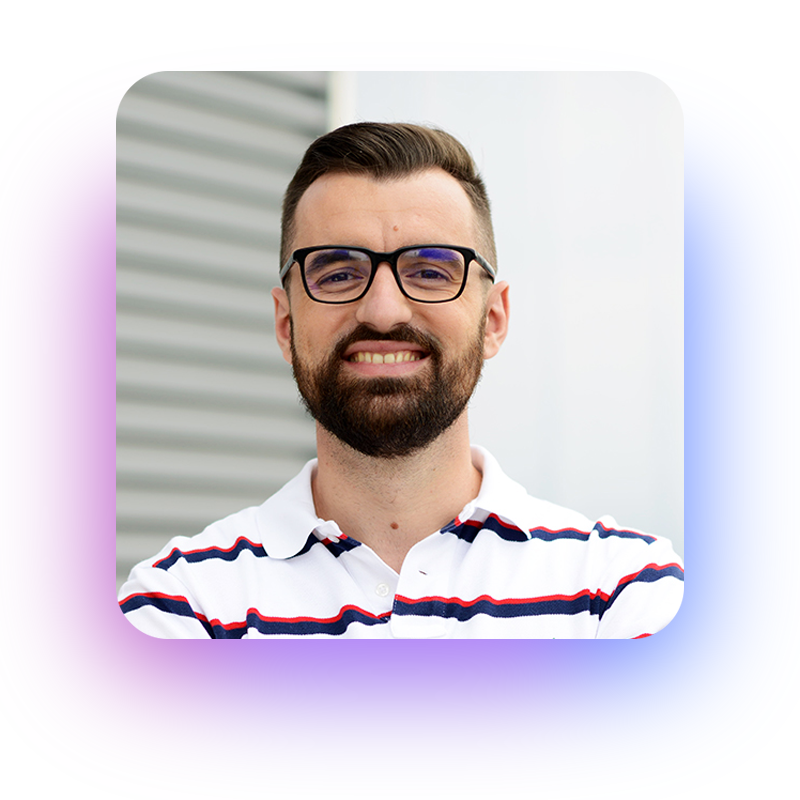
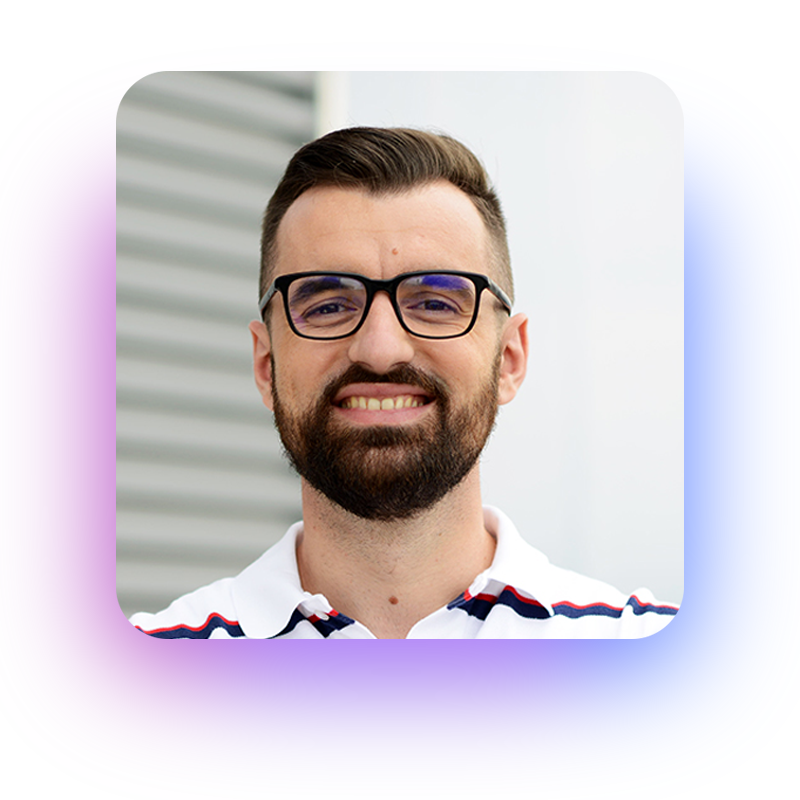
GitBook: [#16] added a table + image

Changed region(s): [[0.125, 0.0938, 0.875, 0.8125]]

diff --git a/team.md b/team.md
@@ -2,9 +2,10 @@
 
 ## **Daniel Tamas – CEO**
 
-![](.gitbook/assets/wam_danieltamas.png) Daniel started his gaming career in 2007 cofounding IDEA Studios, an indie game studios and publisher. Since 2007 he and his team created more than 4000 viral online games that reached more than 3 billion players worldwide. His responsibilities varied from operations to engineering, design, business development, sales and marketing, monetisation, product development or heading the R\&D department in companies that generated more than €7m to date.
+| ![](<.gitbook/assets/wam_danieltamas (1) (1).png>) | <p>Daniel started his gaming career in 2007 cofounding IDEA Studios, an indie game studios and publisher. </p><p></p><p>Since 2007 he and his team created more than 4000 viral online games that reached more than 3 billion players worldwide. His responsibilities varied from operations to engineering, design, business development, sales and marketing, monetisation, product development or heading the R&#x26;D department in companies that generated more than €7m to date.</p><p></p><p>In 2016 he cofounded Digitap with the purpose of pushing the boundaries of game publishing targeting the browser as a true free and open platform without gatekeepers.</p> |
+| -------------------------------------------------- | ------------------------------------------------------------------------------------------------------------------------------------------------------------------------------------------------------------------------------------------------------------------------------------------------------------------------------------------------------------------------------------------------------------------------------------------------------------------------------------------------------------------------------------------------------------------------------------------------------------------------------------------------------------------------------- |
 
-In 2016 he cofounded Digitap with the purpose of pushing the boundaries of game publishing targeting the browser as a true free and open platform without gatekeepers.
+
 
 ## **Alex Rus – CBO**
 
